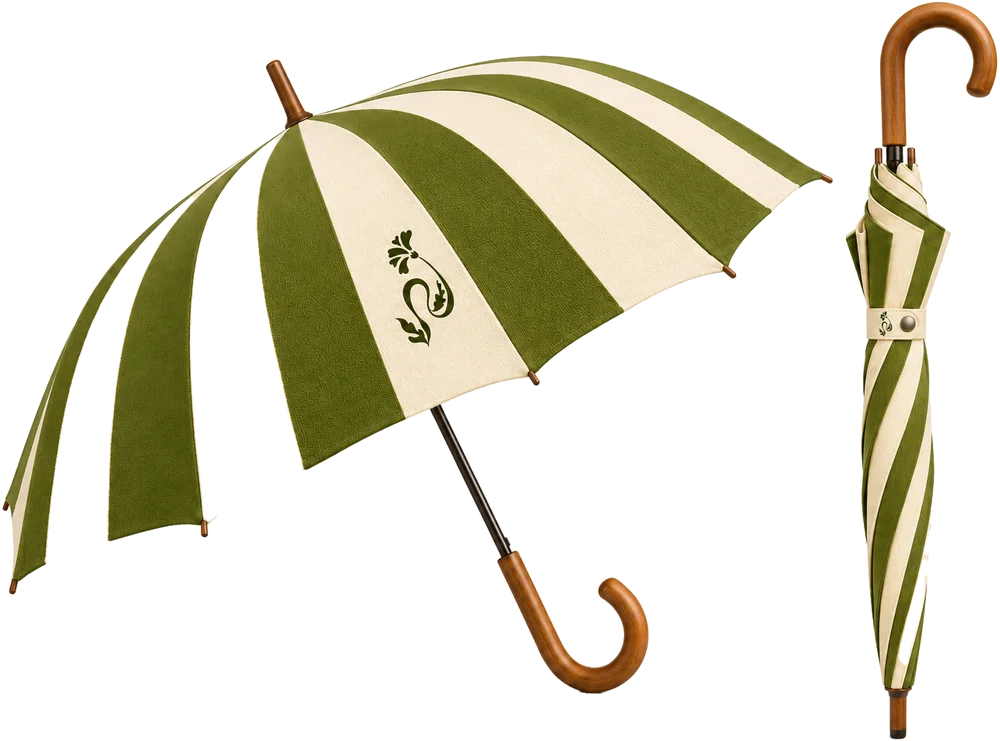
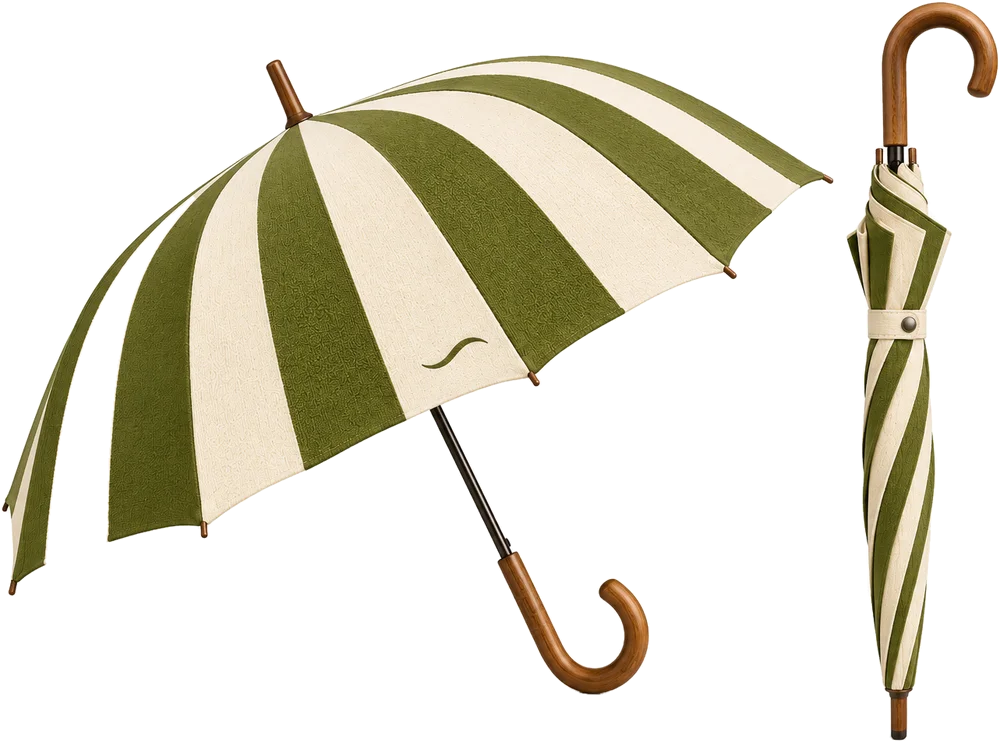
Molovata: replace umbrella cut-out
Claude-Session: https://claude.ai/code/session_01V6eJu1dSzFvvUSE1CfbGv7

diff --git a/src/app/molovata/page.js b/src/app/molovata/page.js
@@ -59,7 +59,7 @@ const BRANDING = [
   { src: '/molovata/molovata-branding-tuk-tuk-cut.webp', srcSet: '/molovata/molovata-branding-tuk-tuk-cut-m.webp 1000w, /molovata/molovata-branding-tuk-tuk-cut.webp 1441w', alt: 'Molovata Wellness — трёхколёсный фургончик с полосатым тентом, полотенцами и корзинами' },
   { src: '/molovata/molovata-branding-flower-mark-cut.webp', srcSet: '/molovata/molovata-branding-flower-mark-cut-m.webp 1000w, /molovata/molovata-branding-flower-mark-cut.webp 1048w', alt: 'Molovata — знак-цветок, оливковый орнамент', size: 'small' },
   { src: '/molovata/molovata-branding-robe-look-cut.webp', srcSet: '/molovata/molovata-branding-robe-look-cut-m.webp 1000w, /molovata/molovata-branding-robe-look-cut.webp 606w', alt: 'Molovata Wellness — полосатый халат с тюрбаном, сумкой и шлёпанцами' },
-  { src: '/molovata/molovata-branding-umbrella-cut.webp', srcSet: '/molovata/molovata-branding-umbrella-cut-m.webp 1000w, /molovata/molovata-branding-umbrella-cut.webp 1285w', alt: 'Molovata Wellness — полосатый зонт с деревянной ручкой и знаком' },
+  { src: '/molovata/molovata-branding-umbrella-cut.webp', srcSet: '/molovata/molovata-branding-umbrella-cut-m.webp 1000w, /molovata/molovata-branding-umbrella-cut.webp 1283w', alt: 'Molovata Wellness — полосатый зонт с деревянной ручкой и знаком' },
   { src: '/molovata/molovata-branding-towels-cut.webp', srcSet: '/molovata/molovata-branding-towels-cut-m.webp 1000w, /molovata/molovata-branding-towels-cut.webp 1285w', alt: 'Molovata Wellness — стопка полосатых полотенец с нашивкой' },
   { src: '/molovata/molovata-branding-slippers-cut.webp', srcSet: '/molovata/molovata-branding-slippers-cut-m.webp 1000w, /molovata/molovata-branding-slippers-cut.webp 1146w', alt: 'Molovata Wellness — махровые шлёпанцы с логотипом' },
   { src: '/molovata/molovata-branding-tote-bag-cut.webp', srcSet: '/molovata/molovata-branding-tote-bag-cut-m.webp 1000w, /molovata/molovata-branding-tote-bag-cut.webp 853w', alt: 'Molovata Wellness — махровая полосатая сумка с нашивкой' },
